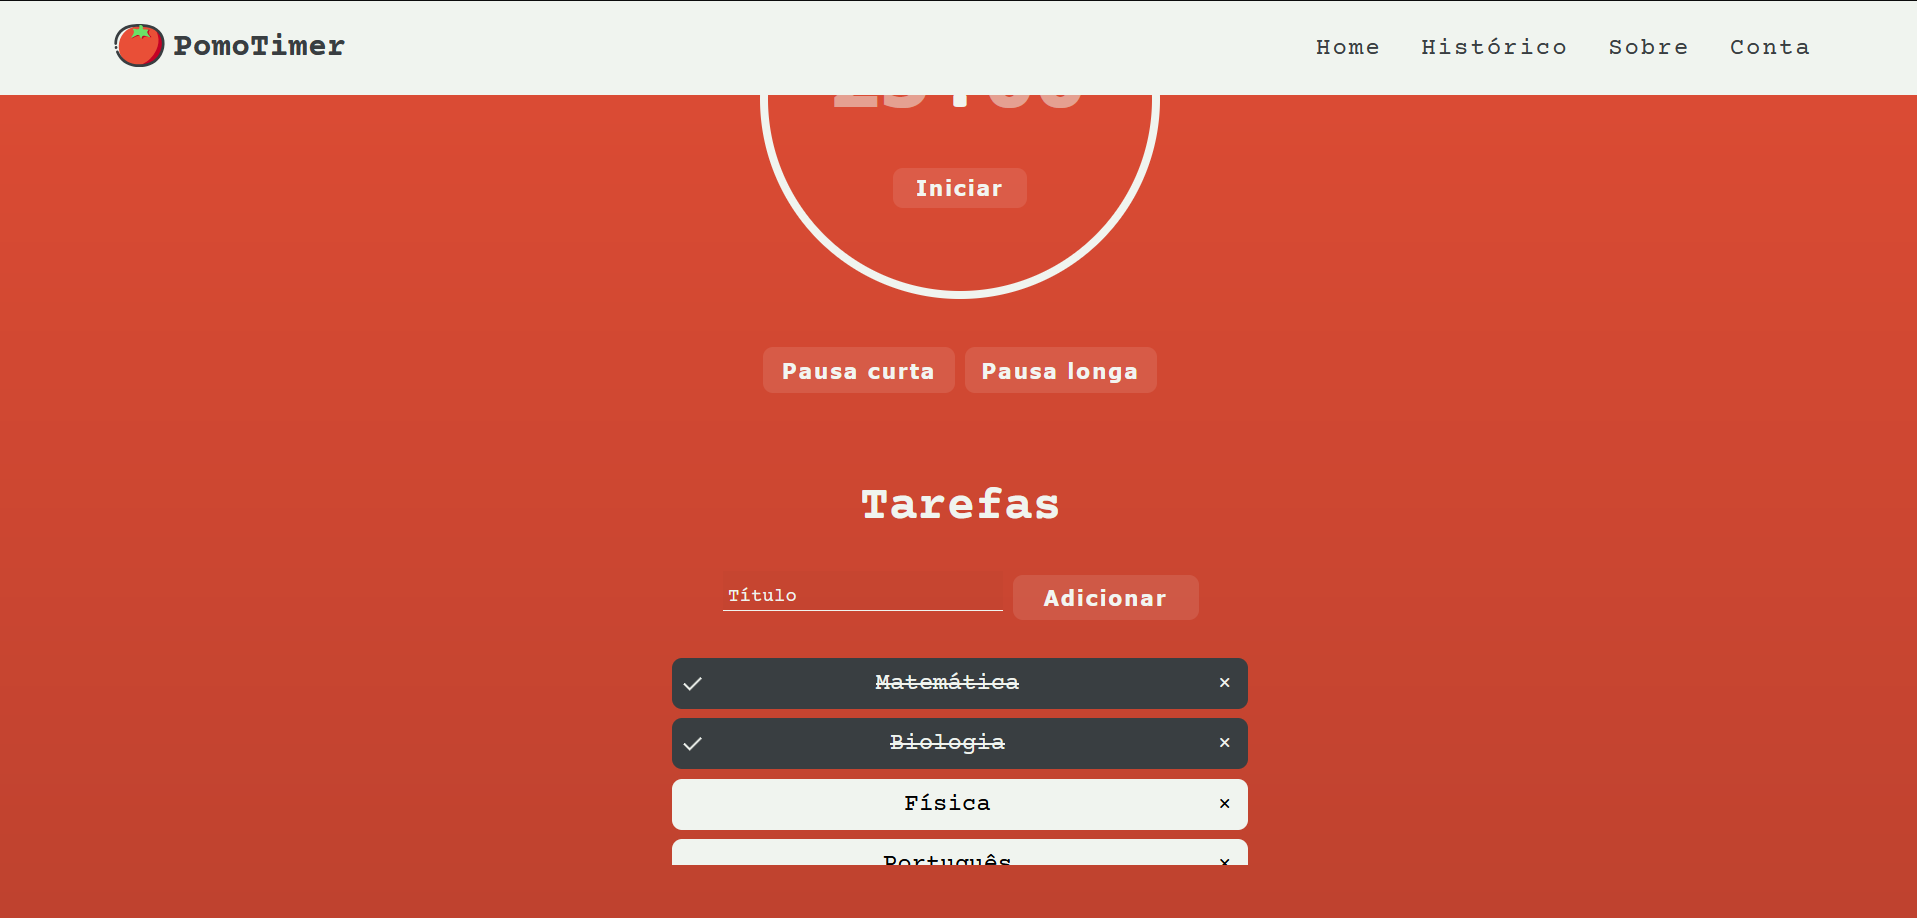
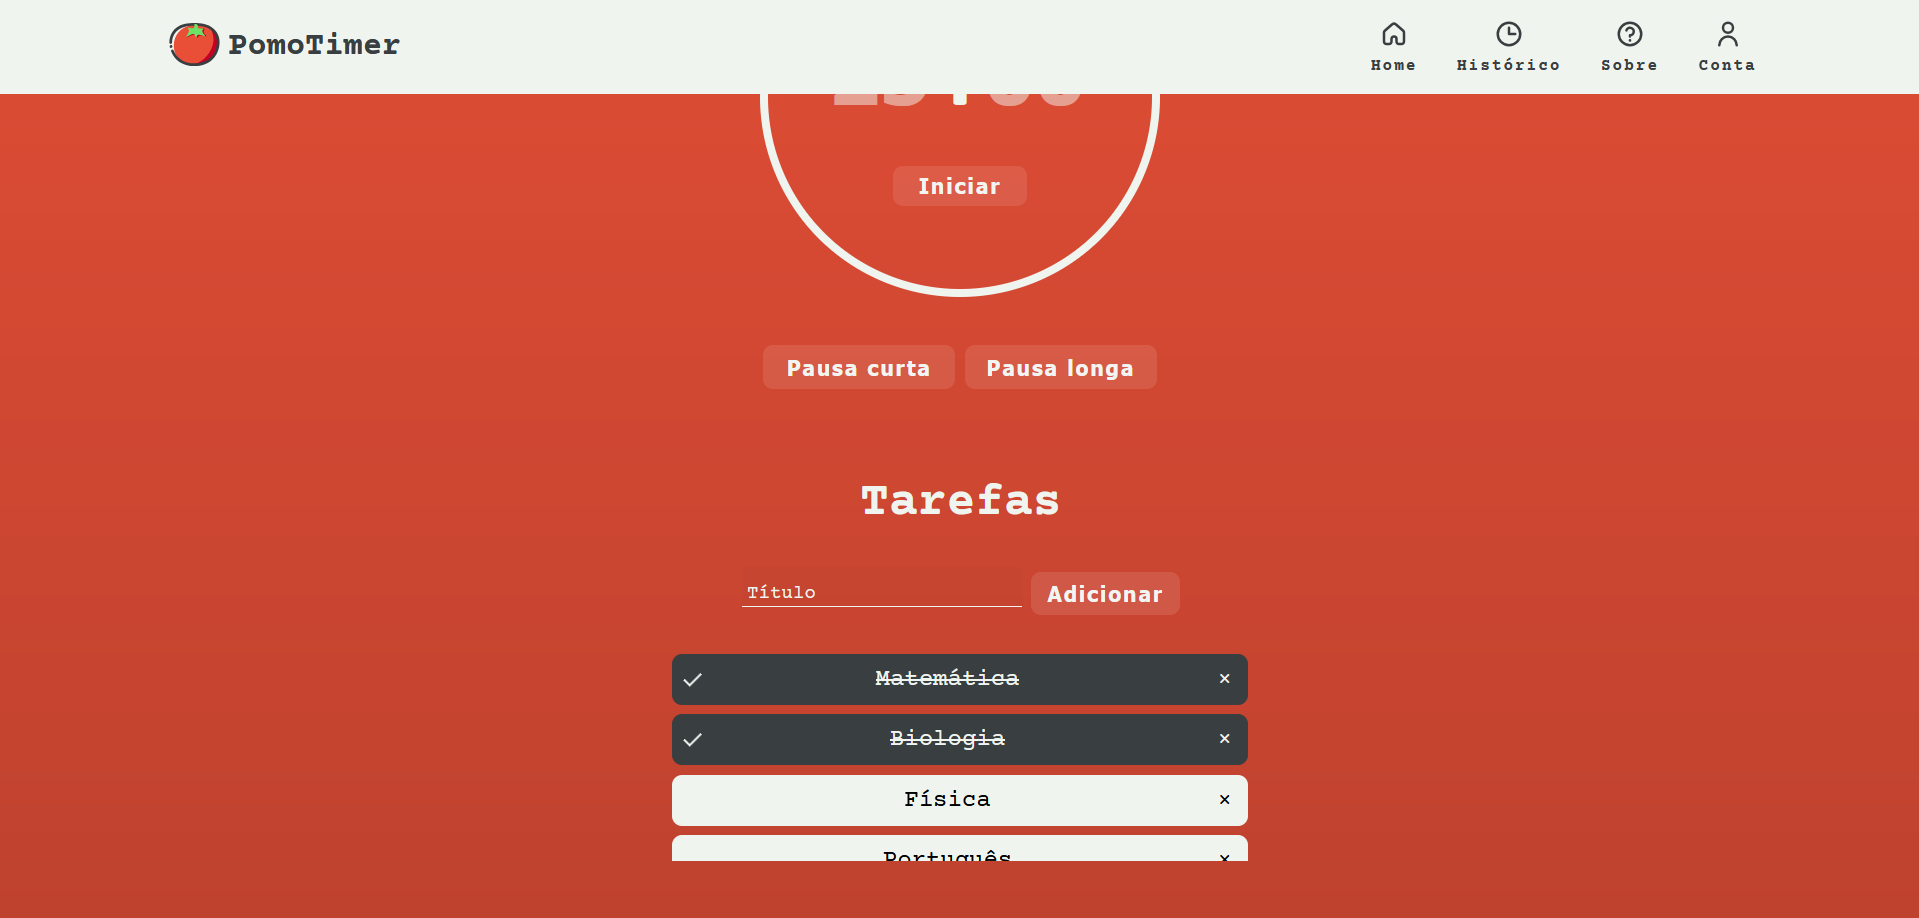
🍅 PomoTimer

diff --git a/js/main.js b/js/main.js
@@ -9,50 +9,74 @@ var shortPause = document.getElementById("short-pause");
 var longPause = document.getElementById("long-pause");
 var session = document.querySelector(".minutes");
 
-var myInterval;
-var isPaused = false;
+let myInterval;
+let isPaused = false;
 var totalSeconds = 0;
+
+// Function to save the session data on localStorage
+function saveSessionData(sessionType, duration, breakTime) {
+  const sessionData = {
+    date: new Date().toLocaleDateString(),
+    type: sessionType, // "Pomodoro", "Short Pause", "Long Pause"
+    duration: duration, // Session duration in minutes
+    breakTime: breakTime // Break time duration in minutes
+  };
+
+  // Retrieves existing sessions from localStorage or initializes an empty array
+  let sessions = JSON.parse(localStorage.getItem("sessions")) || [];
+
+  // Add a new session on the session array
+  sessions.push(sessionData);
+
+  // Save array on the localStorage
+  localStorage.setItem("sessions", JSON.stringify(sessions))
+}
 
 // Timer function
 var appTimer = (remainingSeconds = null) => {
-    startBells.play();
-    startButton.innerText = "Pausar";
-    
-    // Seleciona os inputs de minutos e segundos
-    var minutesInput = document.querySelector('.minutes');
-    var secondsInput = document.querySelector('.seconds');
-    var sessionAmount;
+  startBells.play();
+  startButton.innerText = "Pausar";
+  
+  var minutesInput = document.querySelector('.minutes');
+  var secondsInput = document.querySelector('.seconds');
+  var minutesAmount, secondsAmount;
 
-    if (!isNaN(minutesInput.value) && minutesInput.value.trim() !== "") {
-        sessionAmount = parseInt(minutesInput.value, 10);
-    } else {
-        sessionAmount = parseInt(minutesInput.placeholder, 10);
-    }
+  if (!isNaN(minutesInput.value) && minutesInput.value.trim() !== "") {
+      minutesAmount = parseInt(minutesInput.value, 10);
+  } else {
+      minutesAmount = parseInt(minutesInput.placeholder, 10);
+  }
 
-    if (remainingSeconds !== null) {
-        totalSeconds = remainingSeconds;
-    } else {
-        totalSeconds = sessionAmount * 60;
-    }
+  if (!isNaN(secondsInput.value) && secondsInput.value.trim() !== "") {
+      secondsAmount = parseInt(secondsInput.value, 10);
+  } else {
+      secondsAmount = 0;
+  }
 
-    var updateSeconds = () => {
-        var minutesLeft = Math.floor(totalSeconds / 60);
-        var secondsLeft = totalSeconds % 60;
+  if (remainingSeconds !== null) {
+      totalSeconds = remainingSeconds;
+  } else {
+      totalSeconds = minutesAmount * 60 + secondsAmount;
+  }
 
-        // Atualiza os inputs de minutos e segundos
-        minutesInput.value = minutesLeft < 10 ? "0" + minutesLeft : minutesLeft;
-        secondsInput.value = secondsLeft < 10 ? "0" + secondsLeft : secondsLeft;
+  var updateSeconds = () => {
+      var minutesLeft = Math.floor(totalSeconds / 60);
+      var secondsLeft = totalSeconds % 60;
 
-        if (totalSeconds === 0) {
-            endBells.play();
-            clearInterval(myInterval);
-            startButton.removeEventListener("click");
-        }
-        totalSeconds--;
-    };
+      minutesInput.value = minutesLeft < 10 ? "0" + minutesLeft : minutesLeft;
+      secondsInput.value = secondsLeft < 10 ? "0" + secondsLeft : secondsLeft;
 
-    updateSeconds();
-    myInterval = setInterval(updateSeconds, 1000);
+      if (totalSeconds === 0) {
+          endBells.play();
+          clearInterval(myInterval);
+          startButton.removeEventListener("click");
+          saveSessionData("Pomodoro", minutesAmount, secondsAmount)
+      }
+      totalSeconds--;
+  };
+
+  updateSeconds();
+  myInterval = setInterval(updateSeconds, 1000);
 };
 
 // Event listener for startButton
@@ -78,11 +102,13 @@ startButton.addEventListener("click", () => {
 shortPause.addEventListener("click", () => {
     clearInterval(myInterval);
     appTimer(5 * 60);
+    saveSessionData("Pausa curta", 5, 0)
 })
 
 longPause.addEventListener("click", () => {
     clearInterval(myInterval);
     appTimer(15 * 60);
+    saveSessionData("Pausa longa", 15, 0)
 })
 
 // Create a "close" button and append it to each list item

diff --git a/css/main.css b/css/main.css
@@ -185,6 +185,10 @@ footer {
     cursor: pointer;
 }
 
+.timer-select:hover::placeholder {
+    color: var(--color3);
+}
+
 .timer-select::placeholder {
     color: var(--color1);
     opacity: 0.5;
@@ -195,13 +199,13 @@ footer {
 }
 
 .timer-button {
-    width: 35%;
+    width: 30%;
     height: 40px;
     color: var(--color1);
     background: none;
     position: relative;
     margin: 40% 2% 0% 2%;
-    font-size: 140%;
+    font-size: 1.3rem;
     font-weight: 600;
     letter-spacing: 2px;
     border: none;
@@ -262,6 +266,8 @@ footer {
     cursor: pointer;
 }
 
+/* ToDo container and it's elements */
+
 .todo-list-container {
     padding: 2% 0 0 3%;
     h2 {
@@ -270,16 +276,13 @@ footer {
     }
 }
 
-.mobile-item-input {
-    position: relative;
-    overflow: hidden;
-}
-
 #todo-input {
-    width: 105%;
+    width: 100%;
     max-width: 280px;
     border: 0;
     border-bottom: 1px solid var(--color1);
+    border-top-right-radius: 5px;
+    border-top-left-radius: 5px;
     position: relative;
     outline: 0;
     margin-bottom: 2%;
@@ -294,6 +297,29 @@ footer {
 #todo-input:hover, #todo-input:focus {
     background: rgba(0, 0, 0, 0.04);
 }
+
+#todo-input:focus + .label + .focus-bg {
+    transform: scaleX(1);
+}
+
+#todo-input:not(:placeholder-shown) + .label,
+#todo-input:focus + .label {
+    transform: translate3d(0, -12px, 0) scale(0.75);
+    color: var(--color1);
+}
+
+.label {
+    position: absolute;
+    font-size: 1.2rem;
+    top: 99.9%;
+    right: 57.5%;
+    transform-origin: 0 0;
+    transform: translate3d(0,0,0);
+    transition: all .2s ease;
+    pointer-events: none;
+    color: var(--color1);
+}
+
 
 .todo-list-container {
     h2 {
@@ -352,40 +378,18 @@ footer {
     color: var(--color1);
 }
 
-.label {
-    position: absolute;
-    font-size: 1.2rem;
-    top: 100%;
-    right: 58.5%;
-    transform-origin: 0 0;
-    transform: translate3d(0,0,0);
-    transition: all .2s ease;
-    pointer-events: none;
-    color: var(--color1);
-}
-
-#todo-input:not(:placeholder-shown) + .label,
-#todo-input:focus + .label {
-    transform: translate3d(0, -12px, 0) scale(0.75);
-    color: var(--color1);
-}
-
-#todo-input:focus + .label + .focus-bg {
-    transform: scaleX(1);
-}
-
 .todo-add {
     padding: 0.5%;
     cursor: pointer;
 }
 
 .add-button {
-    width: 10%;
+    width: 8%;
     height: auto;
     color: var(--color1);
     background: none;
     position: relative;
-    font-size: 140%;
+    font-size: 1.3rem;
     font-weight: 600;
     letter-spacing: 2px;
     margin-right: 3%;

diff --git a/js/history.js b/js/history.js
@@ -1,0 +1,51 @@
+// Função para carregar e exibir os dados salvos no localStorage
+function loadSessionData() {
+    // Recupera os dados das sessões do localStorage
+    let sessions = JSON.parse(localStorage.getItem("sessions")) || [];
+  
+    // Seleciona o corpo da tabela onde os dados serão inseridos
+    var sessionTableBody = document.getElementById("session-table-body");
+  
+    // Limpa o conteúdo atual da tabela para evitar duplicações
+    sessionTableBody.innerHTML = "";
+  
+    // Itera sobre as sessões e cria uma linha para cada uma
+    sessions.forEach(session => {
+      let row = document.createElement("tr");
+  
+      // Cria células para cada dado da sessão
+      let dateCell = document.createElement("td");
+      dateCell.textContent = session.date;
+      row.appendChild(dateCell);
+  
+      let typeCell = document.createElement("td");
+      typeCell.textContent = session.type;
+      row.appendChild(typeCell);
+  
+      let durationCell = document.createElement("td");
+      durationCell.textContent = session.duration;
+      row.appendChild(durationCell);
+  
+      let breakTimeCell = document.createElement("td");
+      breakTimeCell.textContent = session.breakTime;
+      row.appendChild(breakTimeCell);
+  
+      // Adiciona a linha à tabela
+      sessionTableBody.appendChild(row);
+    });
+  }
+  
+  // Função para alternar a visibilidade da área de histórico
+  function toggleHistoryDisplay() {
+    var historyContainer = document.getElementById("session-history");
+    if (historyContainer.style.display === "none") {
+      loadSessionData(); // Carrega os dados ao abrir o histórico
+      historyContainer.style.display = "block";
+    } else {
+      historyContainer.style.display = "none";
+    }
+  }
+  
+  // Event listener para o botão de mostrar histórico
+  var showHistoryButton = document.getElementById("show-history");
+  showHistoryButton.addEventListener("click", toggleHistoryDisplay);

diff --git a/pages/history.html b/pages/history.html
@@ -31,7 +31,9 @@
             </head>
         </section>
         <section>
-            
+            <div class="history-container">
+
+            </div>
         </section>
     </main>
 </body>
